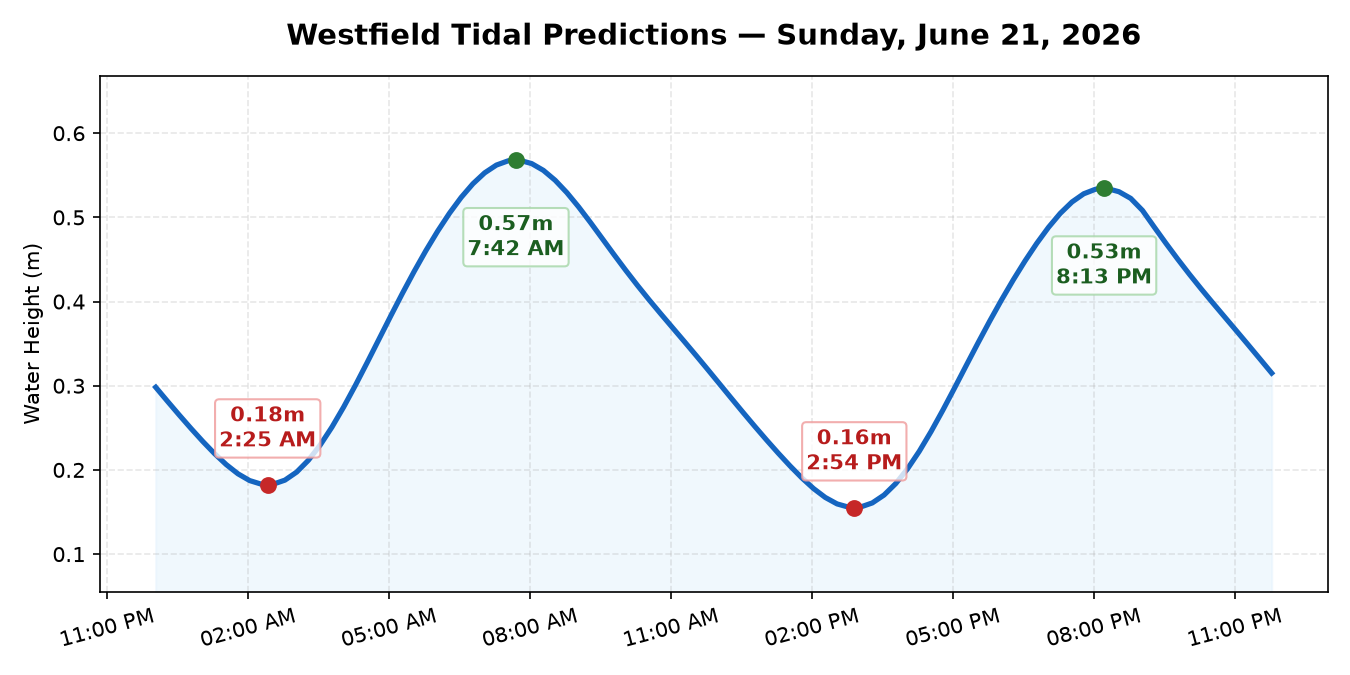
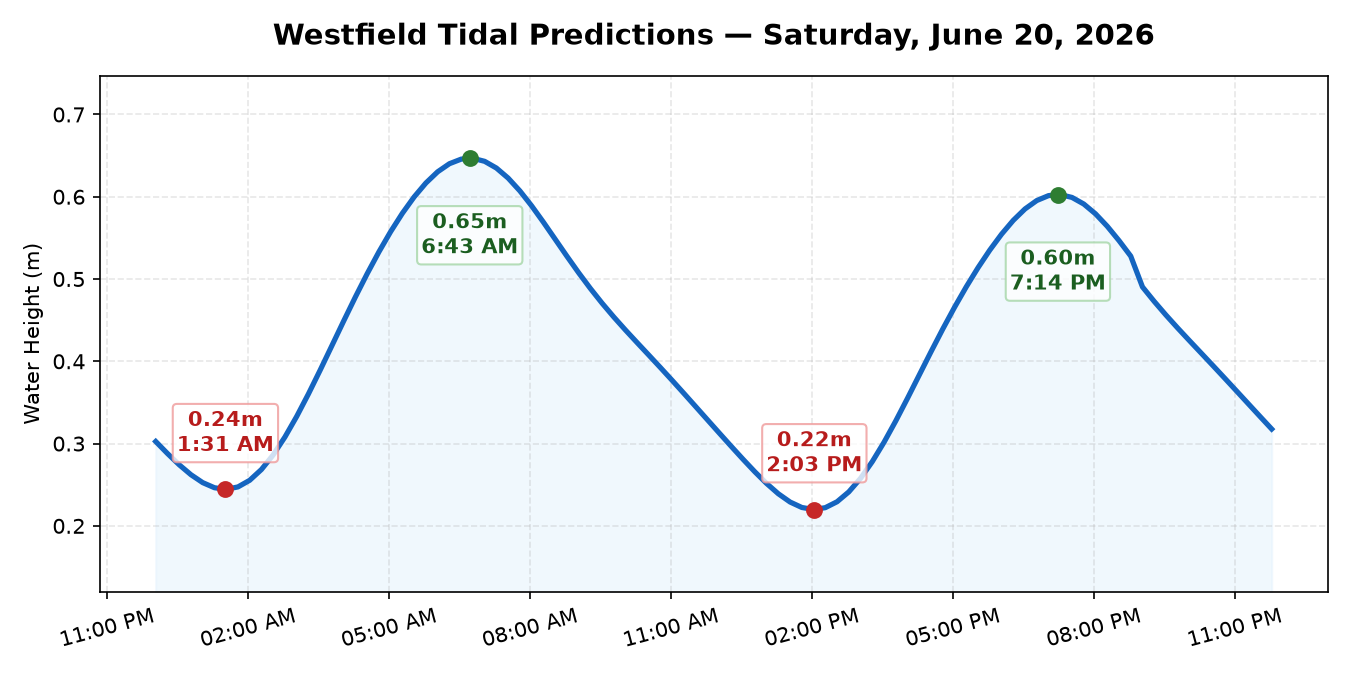
Automated Dashboard Update: Refreshed tide predictions

diff --git a/index.html b/index.html
@@ -28,8 +28,8 @@
 <body>
     <div class="container">
         <h1>Westfield Tide Station</h1>
-        <div class="date-sub">Sunday, June 21, 2026</div>
-        <img src="assets/tide_chart.png" alt="Tomorrow's Tide Curve">
+        <div class="date-sub">Saturday, June 20, 2026</div>
+        <img src="assets/tide_chart.png" alt="Today's Tide Curve">
     </div>
 </body>
 </html>
